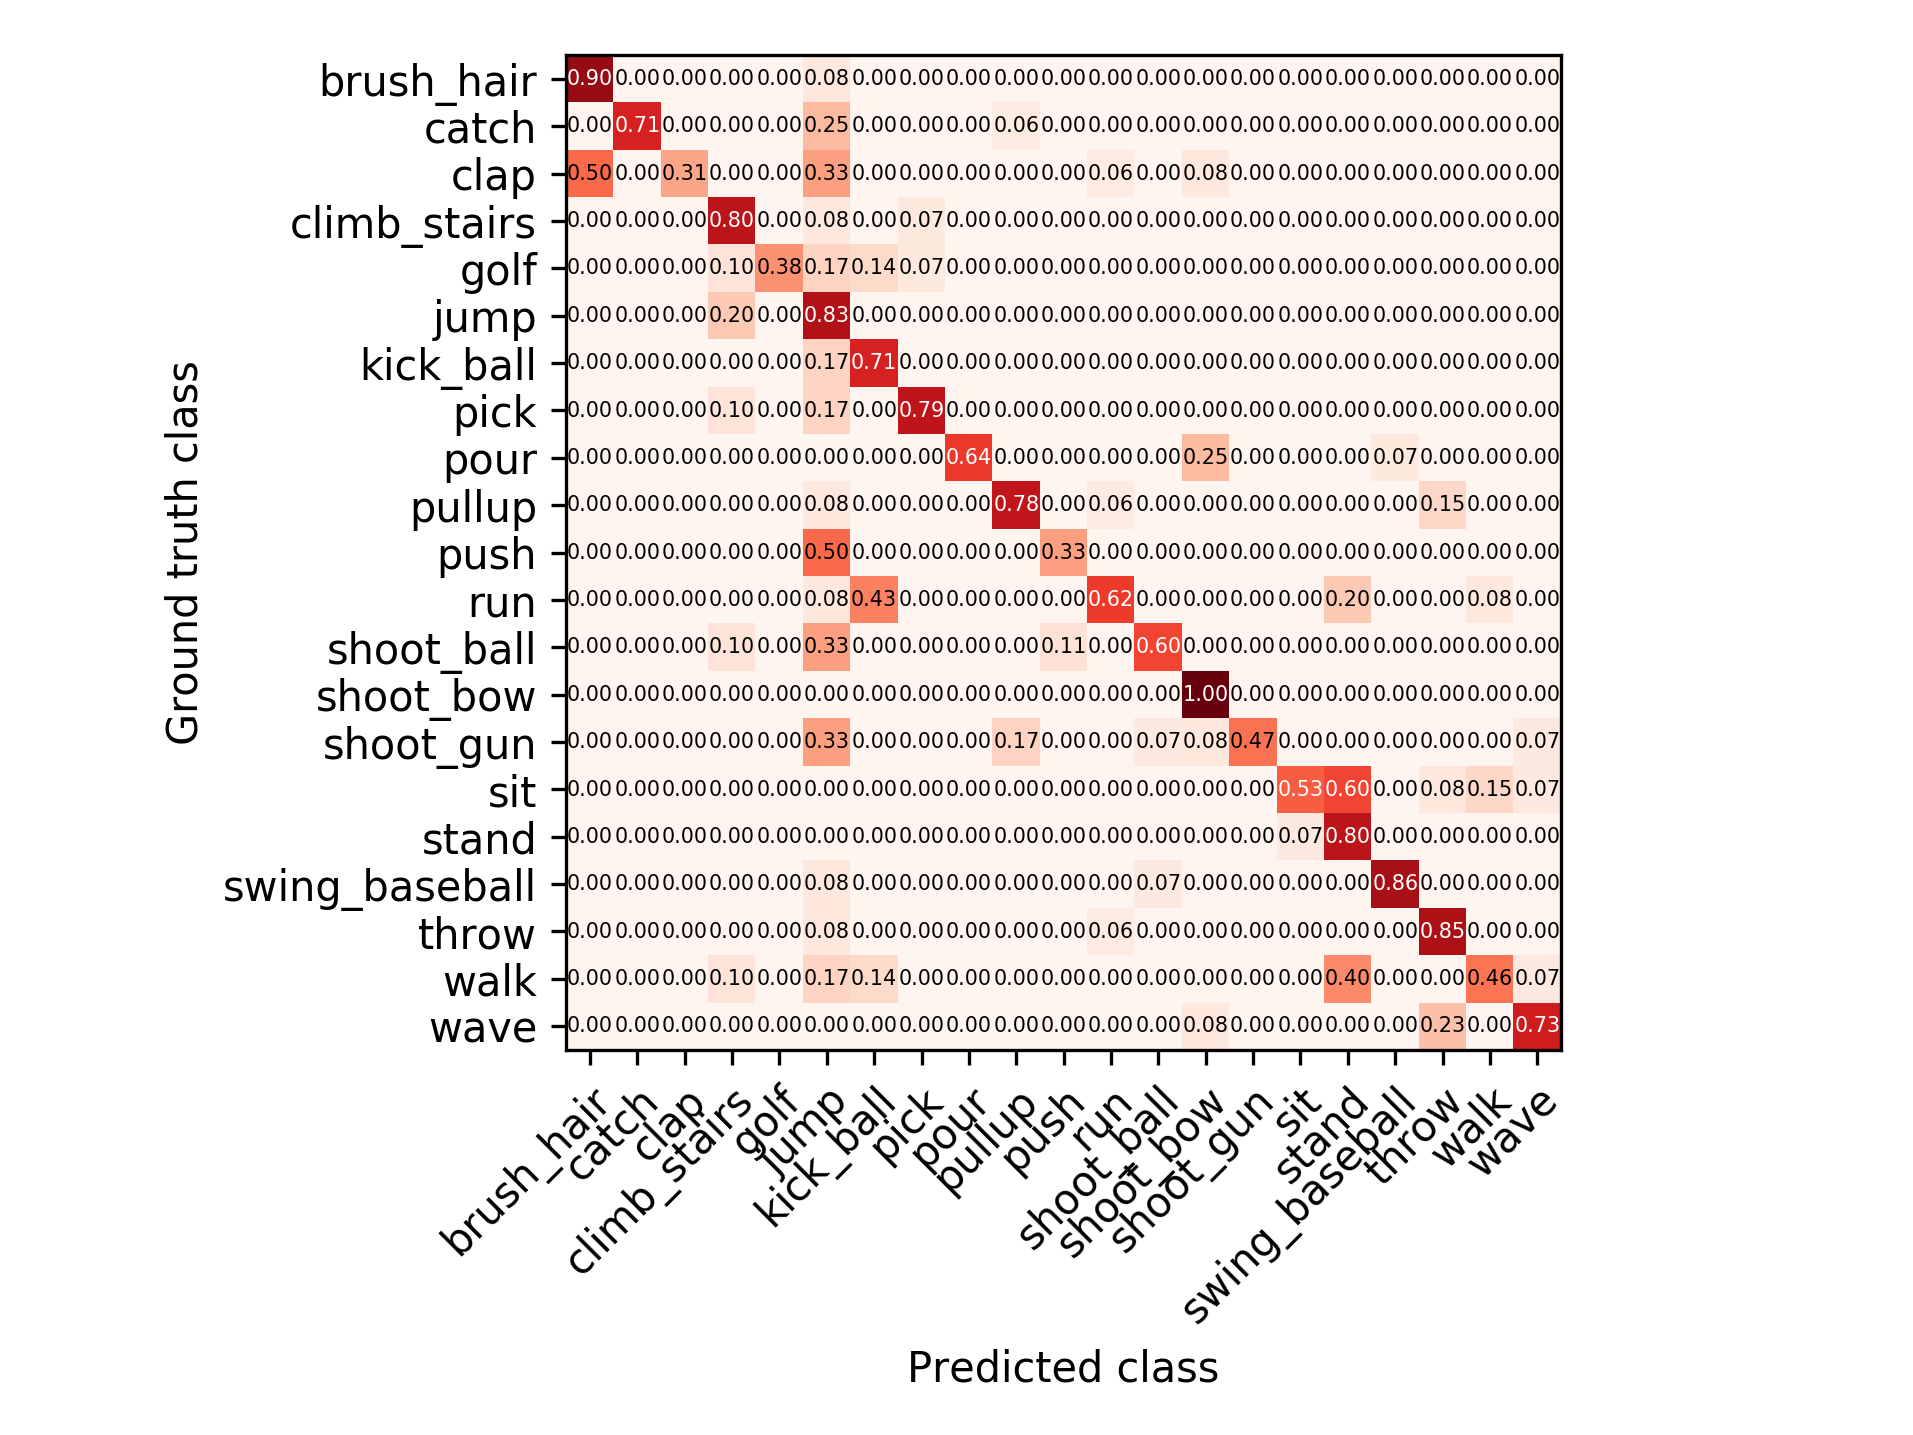
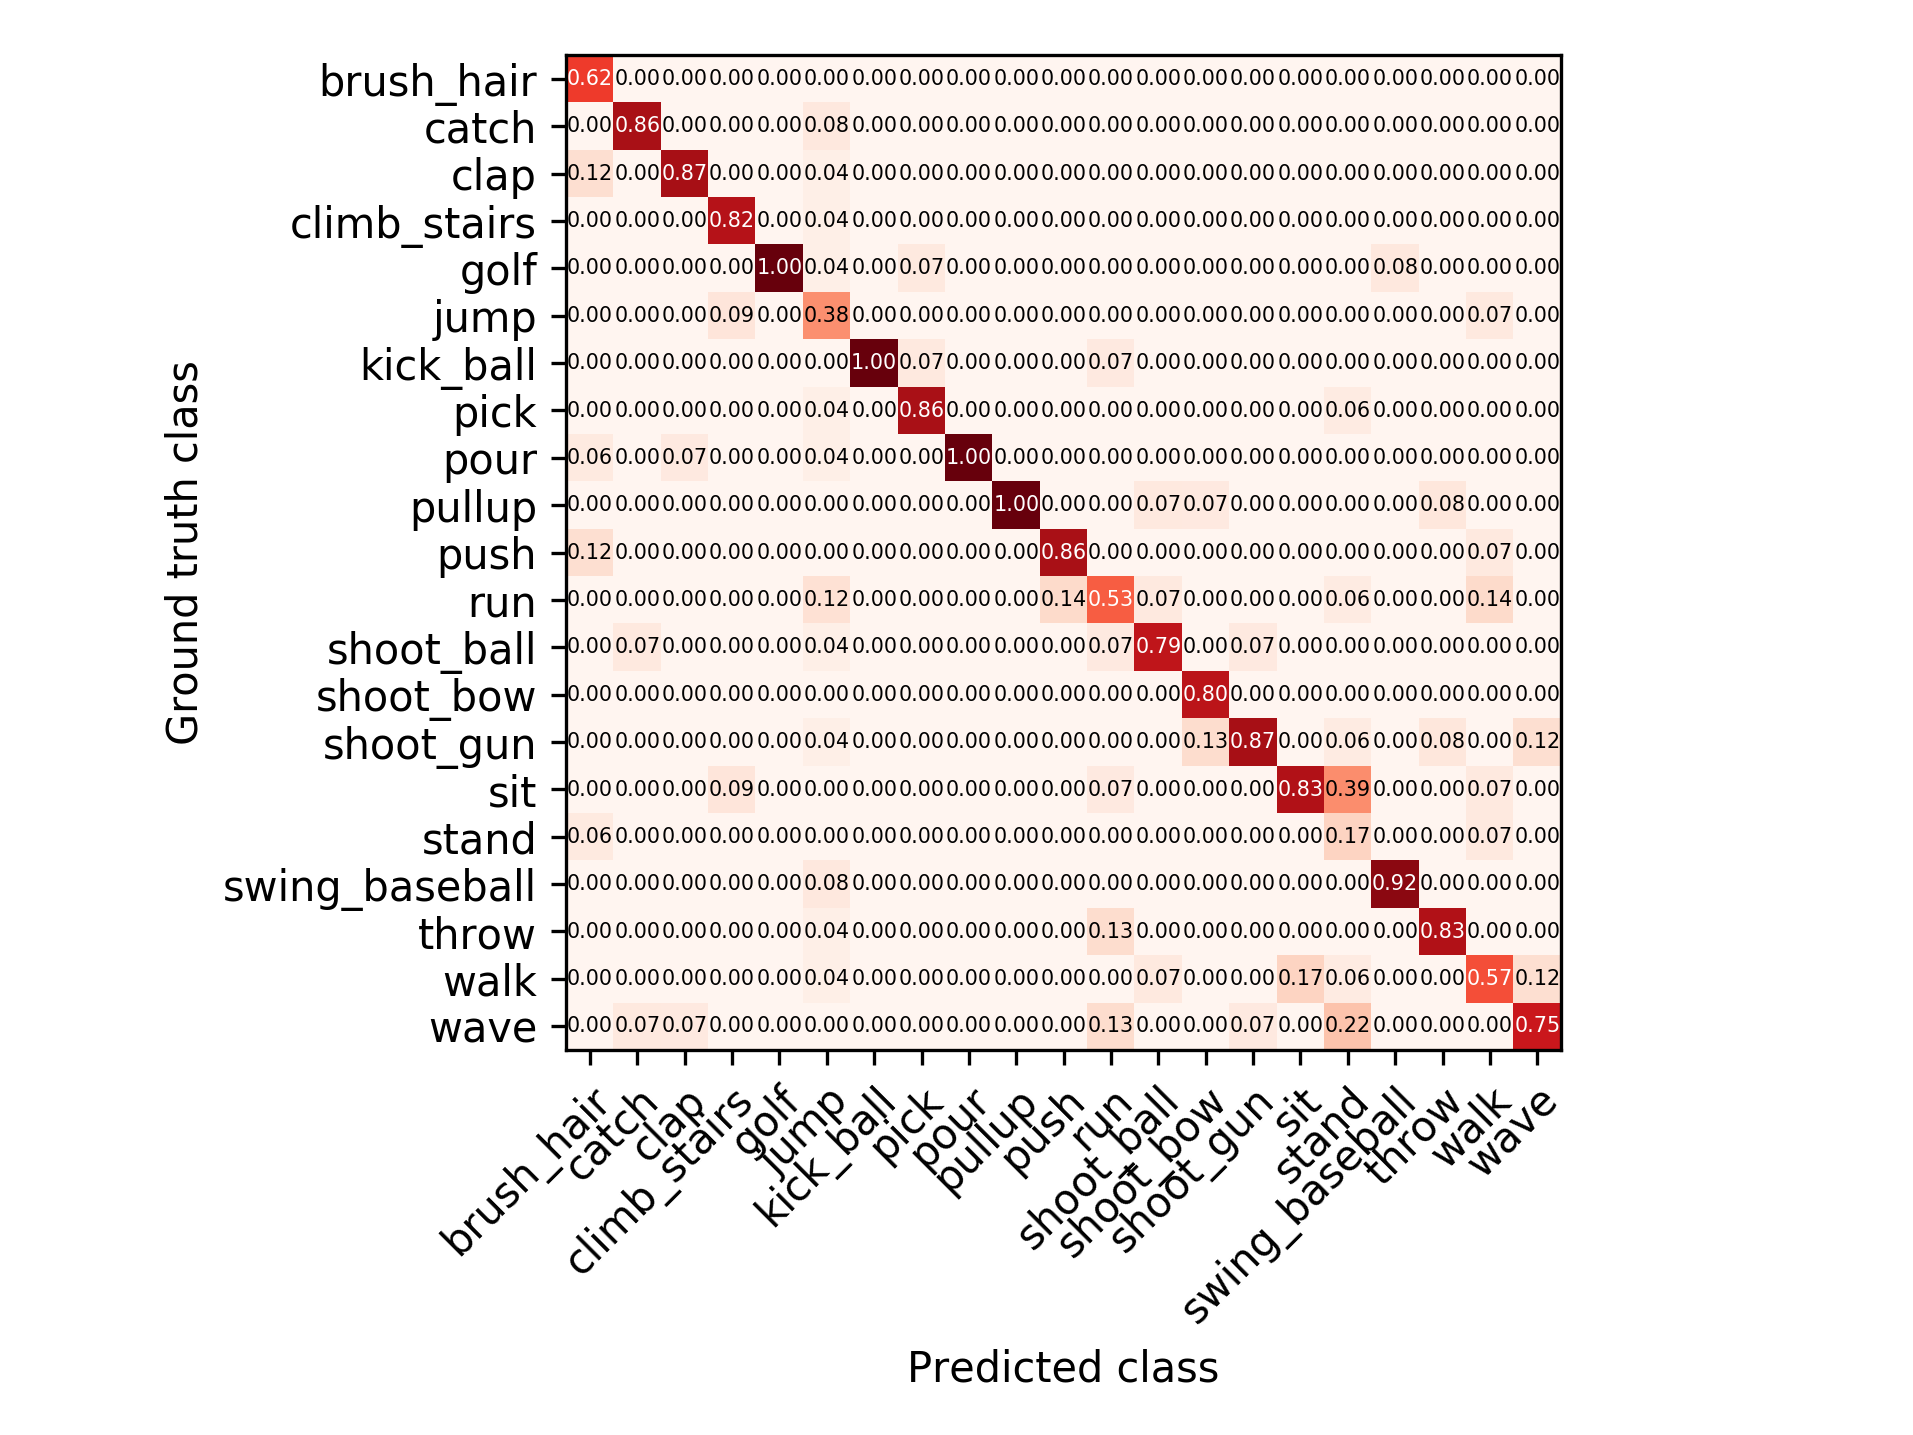
current

diff --git a/thesis/chapter/05-Experiments.tex b/thesis/chapter/05-Experiments.tex
@@ -420,11 +420,14 @@ A learning rate of $2^{-5}$ is used, as suggested by the authors in their work.
 % TODO: zwischenfazit
 
 \subsection{Pose estimation on JHMDB dataset}
+\label{sec:exp-pose-jhmdb}
 Similar to the experiment performed in \sref{sec:exp-replication}, this thesis evaluates different pose estimator configurations using the JHMDB dataset.
 Specifically, pose estimators with $2, 4$ and $8$ prediction blocks are trained with and without context heatmaps to assess the performance of the network on a more challenging video dataset.
 In terms of architecture, there are no changes to the experiments on the MPII dataset.
 The pose estimators are trained using an augmentation ratio of $1:6$, which means that for each original frame there are $6$ randomly augmented frames in the dataset.
 The test accuracies, computed on the JHMDB test split, are shown for each configuration in \tref{tab:jhmdb_results}.
+
+% TODO: Explain why 8 prediction block results are so bad
 
 \begin{table}[]
     \small
@@ -505,36 +508,100 @@ A smaller batch size of $2$ is used since the additional storage of computed gra
 Next, this thesis proposes a method for training the network in an end-to-end approach.
 This means that no part of the network is pretrained.
 To achieve this, the loss of the pose estimator and the loss of the action recognition pipeline are combined.
-More specifically, during the training process, the losses of all intermediate results from the pose estimator are computed using the elastic net loss.
-Afterwards, the loss of all intermediate results from the action recognition are computed using categorical cross-entropy.
-It was decided to weigh both losses equally, i.e., sum them without weighting either the pose estimation or action recognition loss more.
+First, during the training process, the losses of all intermediate results from the pose estimator are computed using the elastic net loss.
+Second, the loss of all intermediate results from the action recognition are computed using categorical cross-entropy.
+It was decided to weigh both losses equally, i.e., sum them without weighting either the pose estimation or action recognition loss more in order to not make any assumptions about which part is more important.
 
-% It was observed that the network started overfitting during training.
-% This is most likely due to the small size of the dataset, compared to the size of the untrained network.
-% It was decided to introduce $L_2$ regularization on the weights using a parameter of $\lambda = 0.9$ to make the network less suceptable to overfitting.
-% TODO: change this if parameters change
-% TODO: on test: confusion matrix for action and per-joint accuracy before and after finetuning. discuss changes
-% TODO: show good / bad example images
+The network needs a high amount of iterations for training until the validation accuracy converges.
+This is to be expected, since no part of the network is pretrained and thus all parts have to be trained from random initialization.
+See \fref{fig:e2e_big} for a graphical representation of the training process.
+Training accuracy of the action recognition part of the network quickly increases and is above the training accuracy of the pose estimator in the beginning.  
+This is to be expected since, at the beginning, the pose information is not reliable.
+Thus, the network focuses on utilizing visual features for classification.
+After approximately $25.000$ iterations, the pose training accuracy surpasses the action train accuracy and continues to converge towards $1$.
+
+HAR validation is "jittery". this indicates uncertainty on unseen data. 
+
 
 \begin{figure}[htb!]
     \centering
     \includegraphics[width=0.8\textwidth]{e2e_big.png}
-    \caption{Loss and validation accuracies of the pipeline trained using an end-to-end approach, without pretraining individual parts of the model. Validation accuracy given as percentage of correctly classified validation datapoints.}
+    \caption{Loss and validation accuracies of the pipeline trained using an end-to-end approach, without pretraining individual parts of the model. Validation accuracy given as percentage of correctly classified validation datapoints. TODO}
     \label{fig:e2e_big}
 \end{figure}
 
-% test results at iteration 230000
-%[ 0.51048951 0.48913043 0.56326531 0.6147541  0.37967914 0.52054795
-%  0.57915058 0.         0.65779468 0.77394636 0.3269962  0.39694656
-%  0.53030303 0.48288973 0.3460076  0.35384615]
-%  mean_acc_single, mean_acc_multi, mean_bb_02, mean_bb_01, mean_upper_02
-%  (0.6714276075363159, 0.6793071031570435, 0.8223645687103271, 0.48881927132606506, 0.3428668975830078)
+\def \e2eFinalIteration {$228.000$ } % TODO
 
-%TODO: explain why it didnt work (or why it did)
+\begin{table}[]
+    \small
+    \centering
+    \begin{tabular}{|c|c|c|c|c|}
+    \hline
+        \textbf{Single clip accuracy} & \textbf{Multi clip accuracy}  & \textbf{PCK @ 0.2} & \textbf{PCK @ 0.1} & \textbf{PCKu @ 0.2}\\ \hline
+        0.81 & 0.84 & 0.83 & 0.51 & 0.36 \\ \hline
+    \end{tabular}
+    \caption{Test results on the JHMDB test set after \e2eFinalIteration iterations. TODO}
+    \label{tab:e2e-quantitative-results}
+\end{table}
+
+% TODO: Compare action to pretrained
+\tref{tab:e2e-quantitative-results}.
+When comparing the pose accuracy of the end-to-end model to the pose estimators trained in \sref{sec:exp-pose-jhmdb}, it is apparent that the end-to-end model is significantly worse in all three metrics.
+Further experimentation is necessary to assess whether or not the model hyperparameters like learning rate and batch size can be optimized in order for the end-to-end model to achieve comparable results to the pretrained model.
+However, the findings are promising, because the network is , in general, able to achieve a high classification accuracy by being trained in an end-to-end approach.
+This suggests that, while the pose estimator might be weaker in comparison to a standalone pose estimator, it is enough to make accurate action classifications.
 
 \begin{figure}[htb!]
     \centering
-    \includegraphics[width=0.8\textwidth]{cm-e2e.png}
+    \includegraphics[width=0.999\textwidth]{cm-e2e.png}
     \caption{TODO}
     \label{fig:cm-e2e}
 \end{figure}
+
+A confusion matrix of the action classifcation on the test dataset is computed to gain a better understanding of the types of missclassification of the network (see \fref{fig:cm-e2e}).
+From the confusion matrix, it becomes clear that the network is highly uncertain between the classes \textit{sit} and \textit{stand}.
+Only $17\%$ of the test datapoints classified as \textit{stand} were actually from the \textit{stand} class.
+In addition, in $39\%$ of the cases where the network predicted \textit{stand}, the ground truth class was \textit{sit}.
+
+% TODO: Intraclass variance: half of each "sit" clip are people standing. see images for examples. Either classes in dataset need to be relabeled or network architecture needs to incorporate more temporal information because 16 frame chunks are not enough. future work!
+% TODO: PUT THIS IN CONCLUSION CHAPTER
+
+% One reason for such a large amount of confusion might be that the image context around the subject does not give a clear indication of the action, especially when considering the \textit{stand} class.
+% Consider the high accuracy of the model on classes such as \textit{pullup} and \textit{golf}, where each image contains the object used in the interaction, in these cases a pullup bar and a golf club.
+% This might also explain why the network is able to correctly estimate the \textit{sit} class in $83\%$ of test data, since a chair or other object the subject is sitting on might lead to useful image features.
+% In addition, pose information of the upper body are very similar in both cases, which leads to another possible point of confusion.
+
+% TODO: said stand, was wave
+$22\%$ of test images are wrongly classified as \textit{stand}, when the actual class is \textit{wave}.
+Would probably be better with more accurate pose at the hands.
+Also intraclass variance
+
+% TODO: show good / bad example images
+
+% TODO: Comparison to JHMDB HAR with pretrained
+
+
+\begin{table}[]
+    \small
+    \centering
+    \scalebox{0.90}{%
+    \begin{tabular}{|c|c|c|c|c|c|c|c|}
+    \hline
+        \textbf{Ankle (r)} & \textbf{Knee (r)}  & \textbf{Hip (r)} & \textbf{Hip (l)} & \textbf{Knee (l)} & \textbf{Ankle (l)} & \textbf{Pelvis} & \textbf{Upper neck} \\ \hline
+        0.55 & 0.52 & 0.63 & 0.64 & 0.48 & 0.50 & 0.56 & 0.72 \\ \hline \hline
+        \textbf{Head top} & \textbf{Wrist (r)} & \textbf{Elbow (r)} & \textbf{Shoulder (r)} & \textbf{Shoulder (l)} & \textbf{Elbow (l)} & \textbf{Wrist (l)} & \textbf{Total} \\ \hline
+        0.75 & 0.31  & 0.37 & 0.47 & 0.54 & 0.45 & 0.47 & 0.51 \\ \hline \hline
+        \textbf{Arms (l)} & \textbf{Arms (r)} & \textbf{Arms (both)} & \textbf{Legs (l)} & \textbf{Legs (r)} & \textbf{Legs (both)} & \textbf{Upper body} & \textbf{Lower body}  \\ \hline
+        0.49 & 0.39 & 0.44 & 0.54 & 0.57 & 0.55 & 0.51 & 0.56 \\ \hline \hline
+    \end{tabular}}
+    \caption{Per joint accuracy, computed on the JHMDB test set using PCK @ 0.1 meassure. In addition, aggregated accuracy values are given in the third row for different sets of joints. \textit{Arms} for both left and right are computed by taking the average of the shoulder, elbow and wrist accuracies. \textit{Legs} are computed the same way, using knee, ankle and hip accuracy values. For \textit{Upper body}, upper neck and head top are added to both \textit{Arms} aggregations. \textit{Lower body} is computed by aggregating both \textit{legs} accuracies as well as pelvis.}
+    \label{tab:e2e-perjoint}
+\end{table}
+
+In \tref{tab:e2e-perjoint}, the accuracy of the poses are given for each joint, as well as for some aggregations like \textit{upper body}.
+On average, the network is more precise on the joints associated with the legs in comparison to the arm joints.
+Also, joints associated with the right side of the subjects are detected with a higher accuracy than the joints associated with the left side.
+% TODO: Why?
+
+%TODO: explain why it didnt work (or why it did)
+% TODO: Idea: show heatmaps per actions or joint accuracies per action. This would be better for explanation

diff --git a/thesis/chapter/06-Conclusion.tex b/thesis/chapter/06-Conclusion.tex
@@ -1,4 +1,15 @@
 \chapter{Conclusion}
 \label{sec:chapter6}
 
+- first: summarize experiments conducted
+
+- mpii pose was quite close to original
+- har pennaction did not work 
+- jhmdb pose shows that model is able to adapt to different, smaller, but more complex dataset
+- har jhmdb (TODO)
+- end to end training is feasible. Intraclass variance and architecture design decisions need to be thought over.
+
 \section{Future Work}
+- use pose estimator architecture which works on video files
+- more temporal context for action recognition
+- bigger fully annotated video dataset
